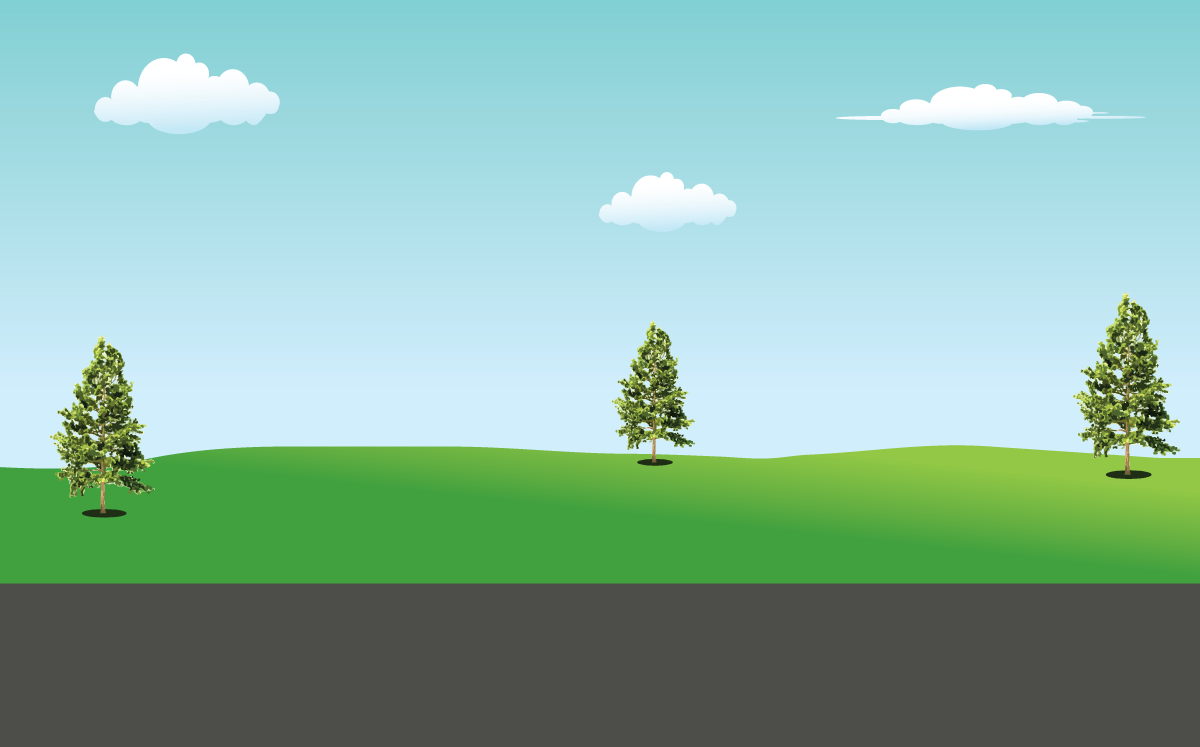
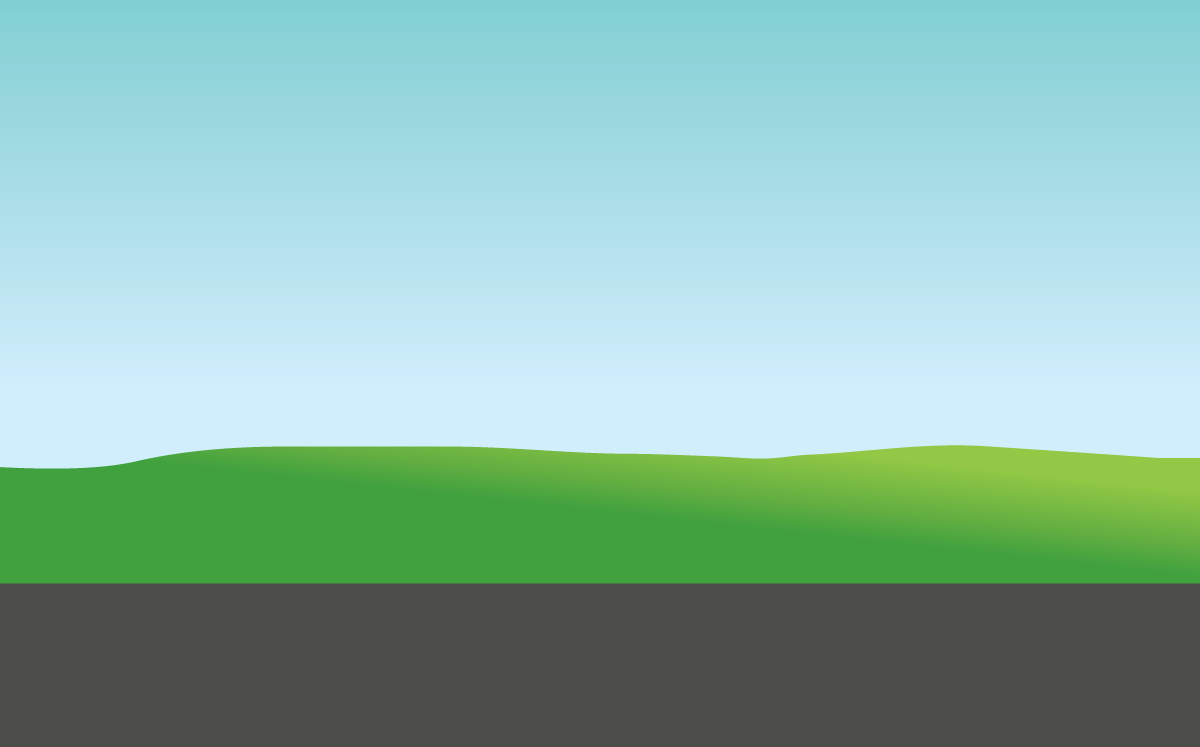
complete the task

diff --git a/css/style.css b/css/style.css
@@ -1,6 +1,6 @@
 body {
-	/*background: url('../images/road.png') repeat-x;*/
-	background: url('../images/background.png') repeat-x;
+	/*background: url('../images/background.png') repeat-x;*/
+	background: url('../images/background_withcloud.png') repeat-x;
 }
 
 .btn {
@@ -56,26 +56,26 @@ button {
 	position: absolute;
 	left: 7%;
 	top: 12%;
-	animation: move_cloud 1s infinite;
+	animation: move_cloud .5s infinite;
 }
 
 .picture .cloud #cloud2 {
 	position: absolute;
 	top: 48%;
 	left: 49%;
-	animation: move_cloud 1s infinite;
+	animation: move_cloud .5s infinite;
 }
 
 .picture .cloud #cloud3 {
 	position: absolute;
 	right: 6%;
 	top: 21%;
-	animation: move_cloud 1s infinite;
+	animation: move_cloud .5s infinite;
 }
 
 @keyframes move_cloud {
 	100% {
-		transform: translate(-1000px, 0px);
+		transform: translate(-1200px, 0px);
 	}
 }
 
@@ -92,21 +92,21 @@ button {
 	position: absolute;
 	left: 3.5%;
 	top: 30%;
-	animation: move_tree 1s infinite;
+	animation: move_tree .5s infinite;
 }
 
 .picture .tree #tree2 {
 	position: absolute;
 	left: 49%;
-	top: 15%;
-	animation: move_tree 1s infinite;
+	top: 25%;
+	animation: move_tree .5s infinite;
 }
 
 .picture .tree #tree3 {
 	position: absolute;
 	right: 3.7%;
 	top: 18%;
-	animation: move_tree 1s infinite;
+	animation: move_tree .5s infinite;
 }
 
 @keyframes move_tree {
@@ -116,7 +116,6 @@ button {
 }
 
 /*Define Road */
-
 .picture .road {
 	height: 20%;
 	width: 100%;

diff --git a/js/move_car.js b/js/move_car.js
@@ -62,6 +62,11 @@ function drive(){
 		++value;
 	}, interval);
 
+	$(document.body).css({
+		'background-image':'url(images/background.png)',
+		'background-repeat':'repeat-x'
+	});
+
 	// Drive Cloud and Tree
 	for(var i = 1; i < 4; i++){
 		$('#cloud' + i).addClass('cloud' + i).show();
@@ -72,8 +77,6 @@ function drive(){
 	for(var i = 1; i < 9; i++){
 		$('#whitestrip' + i).removeClass('' + i).show();
 	}
-
-	// $('body').css('background', 'url("../images/road.png") repeat-x');
 
 	$('#car-moving').show();
 	$('#car-demo').hide();
@@ -86,6 +89,11 @@ function stopMove(){
 	clearInterval(timer);
 	timer = null;
 
+	$(document.body).css({
+		'background-image':'url(images/background_withcloud.png)',
+		'background-repeat':'repeat-x'
+	});
+
 	// Stop Cloud and Tree
 	for(var i = 1; i < 4; i++){
 		$('#cloud' + i).removeClass('cloud' + i).hide();
@@ -96,6 +104,11 @@ function stopMove(){
 	for(var i = 1; i < 9; i++){
 		$('#whitestrip' + i).removeClass('' + i).hide()
 	}
+
+	// $('body').css({
+	// 	'background-image' : 'url("../images/background_withcloud.png")',
+	// 	'background-repeat' : 'repeat-x'
+	// }).show();
 
 	$('#car-moving').hide();
 	$('#car-demo').show();

diff --git a/index.html b/index.html
@@ -5,11 +5,8 @@
 	<script type="text/javascript" src="js/jquery.js"></script>
 	<script type="text/javascript" src="js/move_car.js"></script>
 	<script type="text/javascript" src="js/jquery.keyframes.js"></script>
-
 	<link rel="stylesheet" type="text/css" href="css/style.css">
-
 </head>
-
 <body>
 	<div class="wrapper">
 		<div class="picture">
